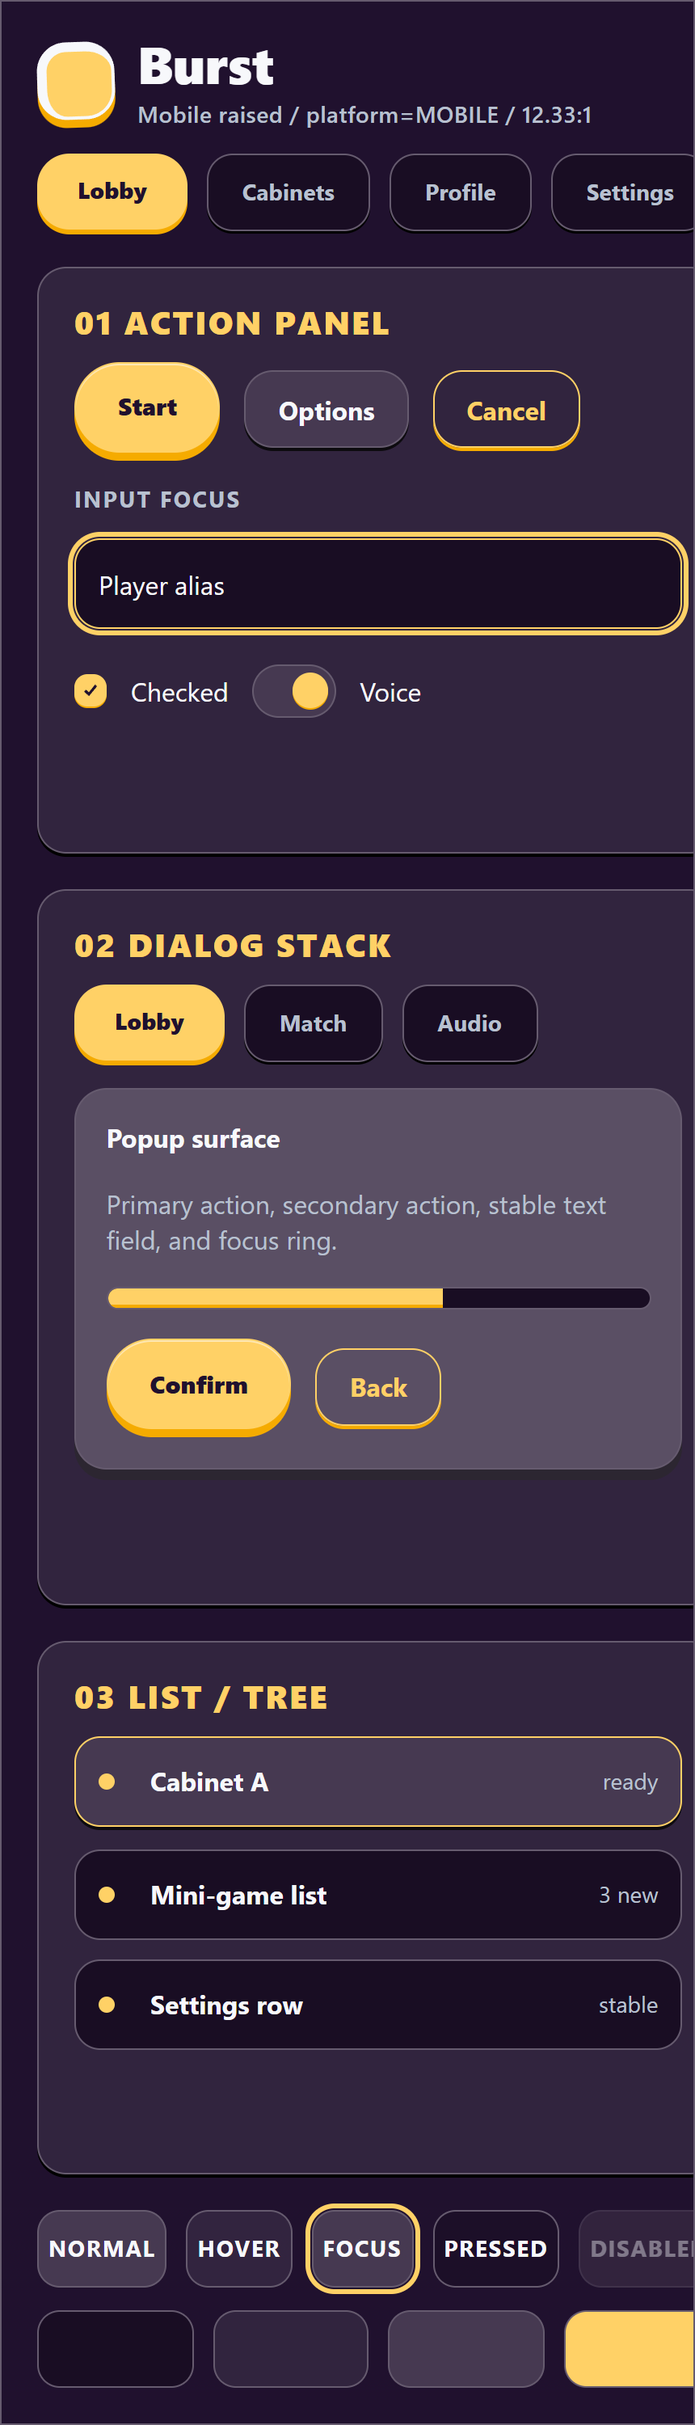
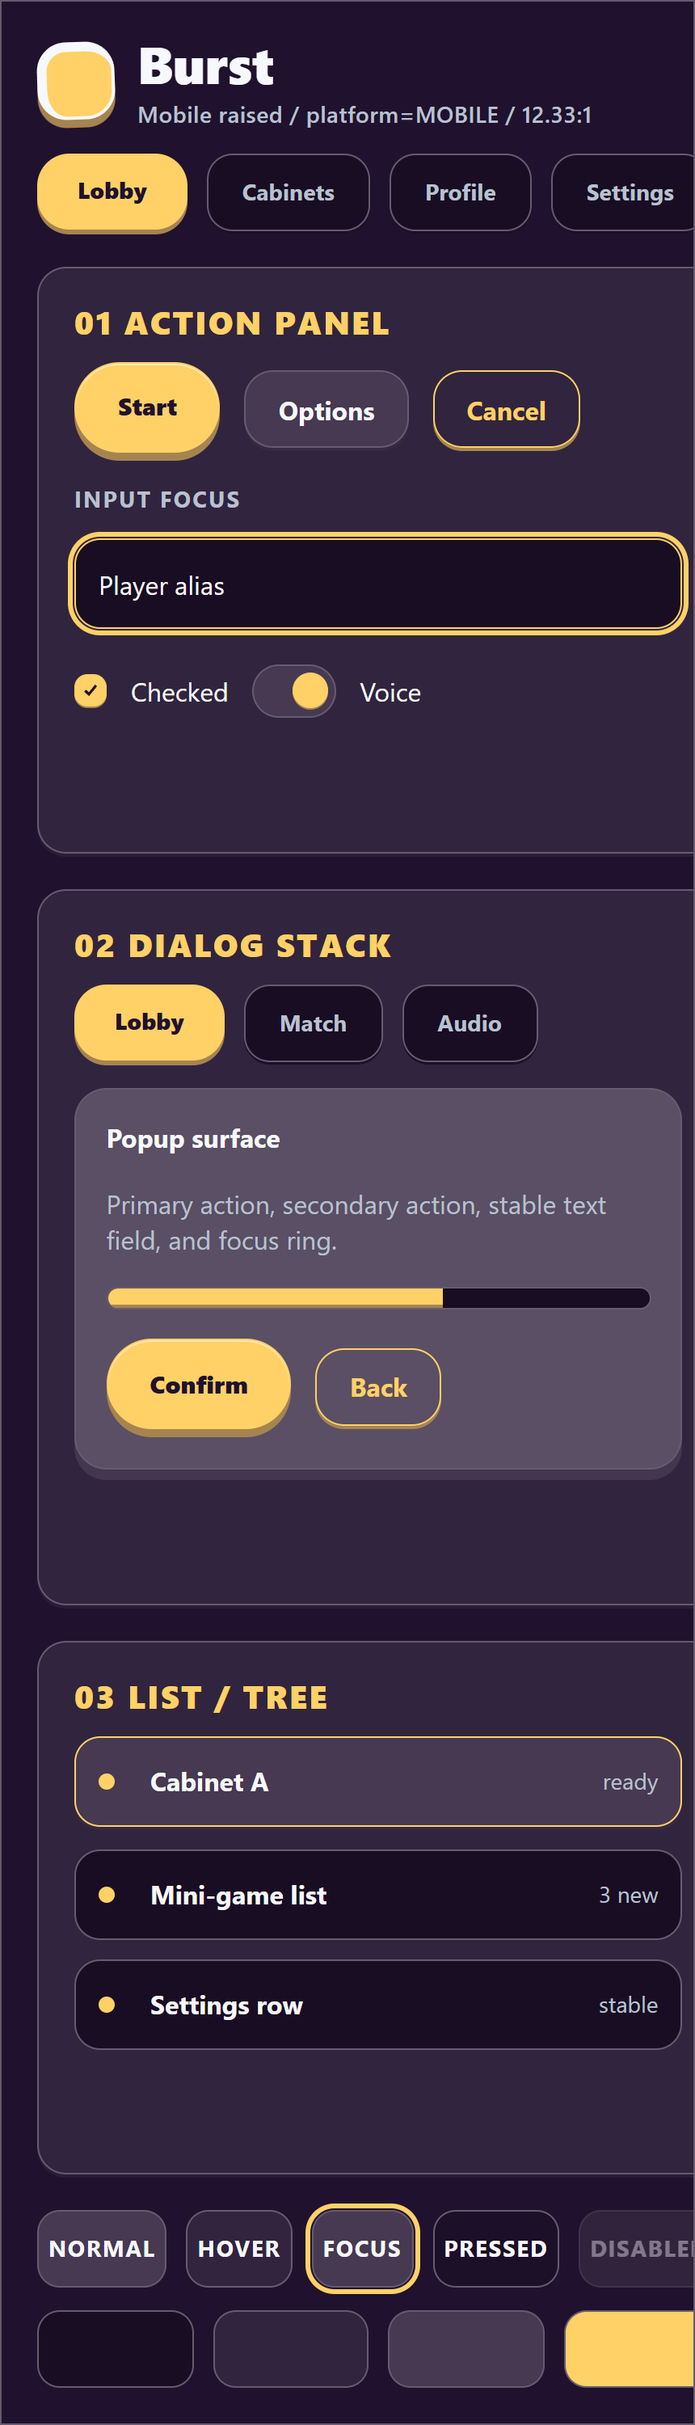
fix(03.4-02): mockup revision 3 — color-tinted offsets on all raised surfaces (no black panel edges)
Surgical fix per MOCKUP-REVISION-3-HANDOFF.md. Rev-2's per-color offset
fix (darken-by-HSL-lightness) landed correctly on bright accent-filled
elements but failed on already-dark surface colors: HSL lightness
subtraction floored at L=0, producing near-black bottom edges on every
panel, dialog, popup overlay, brand-mark badge, state-strip cell,
unselected tab, and selected list row. The result read as Neobrutalism
— the look the user explicitly rejected.

Fix: replaced darken(color, 22%) with tintTowardBase(color, base, 0.40)
= mix(element_color, page_base, 40%). The new formula shifts each
element's color 40% toward the page background, preserving hue at
every brightness AND never going past base on already-dark surfaces.
Bright accents shift to a darker variant in the same hue family
(Bubble's #FFB3E6 → ~#A77399, Pulse's #8BFF6A → ~#5CA352, etc.); dark
surfaces shift gently toward base without crossing it (Bubble's
surface_panel #312133 → ~#2C1B2D, in the same berry family).

Tokens migrated:
  --accent-offset           = mix(accent,           base, 40%)
  --surface-panel-offset    = mix(surface_panel,    base, 40%)
  --surface-high-offset     = mix(surface_high,     base, 40%)
  --surface-overlay-offset  = mix(surface_overlay,  base, 40%)
  --surface-low-offset      = mix(surface_low,      base, 40%)

The legacy --offset alias (no CSS rule consumes it today) still uses
darken(base, 22) — tintTowardBase(base, base) would degenerate to base
[…]

Changed region(s): [[0.1209, 0.558, 0.9674, 0.62], [0.1512, 0.186, 0.2721, 0.217], [0.0605, 0.031, 0.1512, 0.062]]

diff --git a/.planning/mockups/3.4/src/neocade-mockups.js b/.planning/mockups/3.4/src/neocade-mockups.js
@@ -302,9 +302,17 @@ function luminance(hex) {
  *
  * mix(hex, "#000000", pct) was producing "near-black" bottom edges on raised
  * elements regardless of element bg color (Neobrutalism look — explicitly
- * rejected by the user). Reducing HSL lightness instead preserves hue, so a
- * pink button gets a darker-pink offset (the user's PLAY-button reference).
- */
+ * rejected by the user). Reducing HSL lightness preserves hue, so a pink
+ * button gets a darker-pink offset (the user's PLAY-button reference).
+ *
+ * SUPERSEDED FOR OFFSET TOKENS by tintTowardBase() — see rev-3 handoff.
+ * darken() relied on HSL lightness subtraction, which clamps to 0 on already-
+ * dark surface colors (e.g. surface_panel ≈ L=10% minus 22 → L=0 → near-black).
+ * tintTowardBase() mixes the element color toward the page base instead,
+ * which never goes past the base lightness and preserves hue for both bright
+ * accent fills AND already-dark surface colors. darken() is retained because
+ * the legacy --offset alias (base_offset) still uses it for a distinct-from-
+ * base sentinel color (no CSS rule actually consumes var(--offset) today). */
 function rgbToHsl({ r, g, b }) {
   const rn = r / 255, gn = g / 255, bn = b / 255;
   const max = Math.max(rn, gn, bn);
@@ -351,11 +359,34 @@ function hslToRgb({ h, s, l }) {
  * The bottom-edge offset of a raised element should be the SAME hue as the
  * element bg, just darker — never near-black. ~22% is the default per the
  * handoff; smaller for already-light surfaces (overlay) where 22% goes too far.
+ *
+ * NOTE (rev-3): no longer used for the per-color offset tokens. See
+ * tintTowardBase() below. Retained for the legacy --offset alias.
  */
 function darken(hex, percent) {
   const { h, s, l } = rgbToHsl(hexToRgb(hex));
   const newL = Math.max(0, l - percent / 100);
   return rgbToHex(hslToRgb({ h, s, l: newL }));
+}
+
+/**
+ * Returns `elementHex` mixed `ratio` of the way toward `baseHex` — i.e., the
+ * element's color shifted partway toward the page background. This is the
+ * rev-3 replacement for `darken()` on the per-color offset tokens.
+ *
+ * Why mix-with-base, not HSL-darken:
+ *   darken() floors at L=0, so already-dark surface colors (e.g., Bubble's
+ *   surface_panel ≈ L=10%) lose hue and render near-black at -22%, which the
+ *   user calls "Neobrutalism" and rejects. Mixing toward base preserves hue
+ *   at every brightness — bright accents shift toward base (= darker accent in
+ *   the same hue family), already-dark surfaces shift gently toward base
+ *   (= subtly different in the same family, never past base, never black).
+ *
+ * Default ratio 0.40 per MOCKUP-REVISION-3-HANDOFF.md. Tune to 0.30..0.55 if
+ * surface offsets read too prominent (lower) or too subtle (higher).
+ */
+function tintTowardBase(elementHex, baseHex, ratio = 0.40) {
+  return mix(elementHex, baseHex, ratio);
 }
 
 /* --- token derivation per direction + platform ----------------------------- */
@@ -384,15 +415,23 @@ function deriveSurfaceRamp(direction) {
     surface_high,
     surface_overlay,
     outline,
-    /* Per-color offset tokens — each raised element's bottom edge is a darker
-     * variant of its OWN background, not a single near-black token. ~22% HSL
-     * lightness reduction; 18% for surface_overlay (which is already light, so
-     * 22% would crush hue). */
-    accent_offset: darken(accent, 22),
-    surface_high_offset: darken(surface_high, 22),
-    surface_panel_offset: darken(surface_panel, 22),
-    surface_overlay_offset: darken(surface_overlay, 18),
-    surface_low_offset: darken(surface_low, 22),
+    /* Per-color offset tokens (rev-3) — each raised element's bottom edge is a
+     * tinted variant of its OWN bg, mixed 40% toward the page base. Preserves
+     * hue at every brightness AND never goes past base on already-dark
+     * surfaces (the rev-2 darken-floored-at-0 → near-black panel-edge bug
+     * called out in MOCKUP-REVISION-3-HANDOFF.md). Verify visually: every
+     * raised element's bottom edge sits in its own hue family, never black.
+     *
+     * base_offset is intentionally left on darken() — it backs the legacy
+     * --offset alias and should remain distinct from base; tintTowardBase
+     * (base, base, 0.40) would degenerate to base itself. No CSS rule consumes
+     * var(--offset) today, but a future rule's fallback should not be the
+     * exact page color. */
+    accent_offset: tintTowardBase(accent, base, 0.40),
+    surface_high_offset: tintTowardBase(surface_high, base, 0.40),
+    surface_panel_offset: tintTowardBase(surface_panel, base, 0.40),
+    surface_overlay_offset: tintTowardBase(surface_overlay, base, 0.40),
+    surface_low_offset: tintTowardBase(surface_low, base, 0.40),
     base_offset: darken(base, 22)
   };
 }

diff --git a/.planning/mockups/3.4/src/neocade-mockups.css b/.planning/mockups/3.4/src/neocade-mockups.css
@@ -357,9 +357,12 @@ h3 {
  *     STAYS FLAT: text inputs (recessed), passive labels/kickers/headers,
  *                 scrollbar track + grabber, separators, unselected list rows,
  *                 focus ring (already emphatic), state-strip demo swatches.
- *   Each lifted element's bottom-edge offset is a darker variant of its OWN
- *   background color (per-color offset tokens), never a single near-black
- *   token. See `darken()` helper + `deriveSurfaceRamp()` in JS.
+ *   Each lifted element's bottom-edge offset is a tinted variant of its OWN
+ *   background color (per-color offset tokens), mixed 40% toward the page
+ *   base — never a single near-black token. See `tintTowardBase()` helper +
+ *   `deriveSurfaceRamp()` in JS (rev-3 replaces rev-2's `darken()` which
+ *   floored at lightness 0 on already-dark surfaces, producing the black
+ *   panel edges the user called out).
  * ============================================================================ */
 
 .nc-artboard {

diff --git a/.planning/mockups/3.4/render-check.md b/.planning/mockups/3.4/render-check.md
@@ -1,5 +1,9 @@
 # Phase 3.4 Render Check
 
+**Status (revision 3, 2026-05-06):** Mockup revision 3 complete per `MOCKUP-REVISION-3-HANDOFF.md` — surgical fix for the dark-surface near-black bottom-edge bug introduced by rev-2's `darken()` HSL helper. Surface-colored elements (panels, dialogs, popup overlays, brand-mark badge, state-strip cells, unselected tabs, selected list rows) now correctly land color-tinted offsets in their own hue family. 15 concept PNGs + 2 audit composites re-rendered. All other rev-2 decisions (wider radius spread, broader raised matrix, slideshow, platform sizing, mood differentiation) stand unchanged.
+
+**Rev-3 fix:** Replaced `darken(color, 22%)` with `tintTowardBase(color, base, 0.40)` (= `mix(element_color, page_base, 40%)`) for `--accent-offset`, `--surface-panel-offset`, `--surface-high-offset`, `--surface-overlay-offset`, `--surface-low-offset`. The previous formula floored at HSL lightness 0 on already-dark surfaces (e.g., Bubble's `surface_panel` ≈ L=10%; minus 22 clamps to L=0 → near-black), reading as Neobrutalism — the look the user explicitly rejected. The new formula shifts each element 40% toward the page background, preserving hue at every brightness and never crossing past the base. The legacy `--offset` alias still uses `darken()` for a distinct-from-base sentinel (no CSS rule consumes `var(--offset)` today).
+
 **Status (revision 2, 2026-05-07):** Mockup revision 2 complete per `MOCKUP-REVISION-2-HANDOFF.md`. 15 concept PNGs + 2 audit composites re-rendered. All six handoff issues addressed:
 
 1. **Issue 1 — Broad raised matrix.** Most interactables now lift in raised mode (primary/secondary/ghost buttons, selected & unselected tabs, panels, dialogs, list cards, brand mark, chips, selected list rows, toggle thumb, checkbox, progress fill). Explicit do-not-raise list (text inputs, passive labels, kickers, h2 headers, scrollbar, separators, unselected list rows, focus ring, state-strip demo swatches) stays flat.
@@ -23,7 +27,7 @@
 | Per-direction shape-language tokens encoded | PASS | All 10 axes per direction; `shape_language` block in `directions.json`, mirrored in `NEOCADE_DIRECTIONS[*].shape` in JS for file:// runtime. Revision-2 radius spread (0/8/14/18/26) committed. |
 | Artboard CSS does NOT hard-code shape tokens | PASS | `.nc-artboard` reads `var(--radius-base)`, `var(--button-pad-h)`, etc.; no `--radius: 12px` literal anywhere on the artboard or board path. |
 | Artboard CSS does NOT hard-code platform sizes | PASS | `.nc-art-button` reads `var(--button-min)`; `.nc-art-input` reads `var(--input-min)`; `.nc-art-list-row` reads `var(--row-min)`; etc. `.nc-artboard.mobile` only overrides physical width/height, not control sizes. |
-| Per-color offset tokens emitted | PASS | `deriveSurfaceRamp()` emits `accent_offset`, `surface_high_offset`, `surface_panel_offset`, `surface_overlay_offset`, `surface_low_offset` via `darken(hex, pct)` HSL helper at ~22% lightness reduction. |
+| Per-color offset tokens emitted | PASS | `deriveSurfaceRamp()` emits `accent_offset`, `surface_high_offset`, `surface_panel_offset`, `surface_overlay_offset`, `surface_low_offset` via `tintTowardBase(hex, base, 0.40)` (rev-3 — replaces rev-2's `darken()` which clamped to near-black on already-dark surfaces). Each offset is `mix(element_color, page_base, 40%)`, preserving hue at every brightness. |
 | Slideshow component bound | PASS | `concept-gallery.html` includes `<section class="nc-slideshow">`; `bindSlideshow()` wires arrows + keyboard + tabs; image transition is `none !important`. |
 | Flat concept output path | PASS | `concept-image.html?raised=false` renders the flat artboard. |
 | Raised concept output path | PASS | `concept-image.html?raised=true` renders the raised artboard with broad raise matrix and per-color offsets. |
@@ -57,8 +61,8 @@
 | anti-cyberpunk | PASS | No glow, no neon outlines, no synthwave tropes; bright green is daylight cabinet, not nightclub. |
 | anti-texture | PASS | Solid fills only; no patterns, gradients, embossing, or painterly chrome. |
 | anti-painterly-chrome / anti-embossing | PASS | All depth via hard offset, never via gradient or inner-shadow embossing. |
-| raised-mode feel | appropriate | 3px primary / 2px tab offsets read tactile without becoming toy-like; broad matrix lifts the interactable surfaces but inputs / scrollbars / unselected rows / passive labels stay flat. |
-| per-color offset (Issue 2) | PASS | START button bottom edge is darker green (matches the green hue, not near-black). Brand mark lifts on darker green. Selected tab lifts on darker green. Verified at full PNG resolution. |
+| raised-mode feel | appropriate | 3px primary / 2px tab offsets read tactile without becoming toy-like; broad matrix lifts the interactable surfaces but inputs / scrollbars / unselected rows / passive labels stay flat. All raised elements use color-tinted offsets in their own hue family — no near-black bottom edges anywhere (rev-3 fix landed for non-accent surfaces specifically). |
+| per-color offset (Issue 2 + rev-3) | PASS | START button bottom edge ≈ `#5CA352` (`mix(#8BFF6A, #151A2E, 40%)` — green family, not near-black). Cabinet-bezel brand mark, selected Lobby tab (offset stacks under the inset bottom-rule), Confirm primary in dialog all lift on green-tinted edges. Action-panel + dialog-stack + list-tree containers use `--surface-panel-offset` = `mix(surface_panel, base, 40%)`; popup overlay uses `--surface-overlay-offset` = `mix(surface_overlay, base, 40%)`; state-strip cells use `--surface-high-offset`. None near-black. |
 | dark-only compliance (D-28) | PASS | base `#151A2E`. |
 | shape-language differentiation (D-29) | 10/10 axes | Distinct on every axis from at least 3 of 4 siblings. 0px corners are categorically unique. |
 | greyscale sufficiency (D-30) | PASS | Reads as CABINET CONTROL PANEL. Sharp 0px corners + flush rectangular tab strip + square cabinet-bezel mark + uppercase-tracked kickers are unmistakable in greyscale. |
@@ -84,8 +88,8 @@
 | anti-cyberpunk | PASS | Restraint is the personality; cool sky-blue is professional, not neon. |
 | anti-texture | PASS | Solid fills, no decorative chrome. |
 | anti-painterly-chrome / anti-embossing | PASS | No gradients on chrome surfaces. |
-| raised-mode feel | appropriate | 2px primary, 1px tab/row/secondary — quiet broad matrix matches premium-tool restraint. |
-| per-color offset (Issue 2) | PASS | Start primary bottom edge is darker sky-blue (same hue, darker). Selected tab and brand-mark lifts also accent-darker. Inputs stay flat. |
+| raised-mode feel | appropriate | 2px primary, 1px tab/row/secondary — quiet broad matrix matches premium-tool restraint. All raised elements use color-tinted offsets in their own hue family — no near-black bottom edges anywhere (rev-3 fix landed for non-accent surfaces specifically). |
+| per-color offset (Issue 2 + rev-3) | PASS | Start primary bottom edge ≈ `#5A88A6` (`mix(#8BD3FF, #111820, 40%)` — sky-blue family, not near-black). Selected pill tab, rounded-square brand mark, Confirm primary all lift on subtle blue-tinted edges. Action panel + dialog stack + list/tree containers lift on `mix(surface_panel, base, 40%)` (cool slate-tinted, not black). Popup overlay lifts on `mix(surface_overlay, base, 40%)`. Selected list row uses `--surface-high-offset`. Inputs stay flat. Quiet 1-2px depths preserve premium-tool restraint while fixing the rev-2 black-edge issue. |
 | dark-only compliance (D-28) | PASS | base `#111820`. |
 | shape-language differentiation (D-29) | 10/10 axes | Pill chips + small-caps "01 action panel" kickers + narrow-spread surface ramp uniquely identify Slate. |
 | greyscale sufficiency (D-30) | PASS | Reads as PREMIUM TOOL APP. Pill chips + small-caps subtle kickers + smallest button surface deltas + narrowest surface ramp set it apart even without color. |
@@ -111,8 +115,8 @@
 | anti-cyberpunk | PASS | Friendly mobile-game brightness on dark berry, not nightclub. |
 | anti-texture | PASS | Solid berry surfaces, no patterns or stickers. |
 | anti-painterly-chrome / anti-embossing | PASS | Box-shadow hard offset only — no soft inner shadow / no fake bevels. The 1px accent-rim inner highlight on primary mimics the PLAY-button reference but stays in the flat-3D pattern. |
-| raised-mode feel | appropriate | 6px primary is the bubbliest in the set; broad matrix lifts buttons + panels + dialog + tabs + brand mark + thumb + check + progress; inputs / scrollbars / unselected rows / passive labels stay flat. |
-| per-color offset (Issue 2) | PASS — fidelity check passed | Start primary bottom edge is darker pink (`darken(#FFB3E6, 22%)` = `~#CC8BB8`), NOT near-black. Verified at full PNG resolution. Brand-mark circle, selected pill tabs, and Confirm primary in dialog all lift on darker-pink edges matching the user's PLAY-button reference. |
+| raised-mode feel | appropriate | 6px primary is the bubbliest in the set; broad matrix lifts buttons + panels + dialog + tabs + brand mark + thumb + check + progress; inputs / scrollbars / unselected rows / passive labels stay flat. All raised elements use color-tinted offsets in their own hue family — no near-black bottom edges anywhere (rev-3 fix landed for non-accent surfaces specifically). |
+| per-color offset (Issue 2 + rev-3) | PASS — fidelity check passed | Start primary bottom edge ≈ `#A77399` (`mix(#FFB3E6, #241326, 40%)` — darker berry-pink, pink family). Action-panel container, popup-surface dialog, brand-mark true-circle, state-strip cells, selected Cabinet A row, fully-rounded pill tabs, Confirm primary all lift on darker-berry tinted edges in the same hue family. Side-by-side compare against v0 `prize-pop-plaza-concept.png`: the candy-counter mood is recovered — every offset reads as a darker berry, never as a black slab. The rev-2 black-edge bug on dark-surface elements (panels, dialog, brand, state-strip) is gone. |
 | dark-only compliance (D-28) | PASS | base `#241326` (dark berry). |
 | shape-language differentiation (D-29) | 10/10 axes | Largest base radii (26px), true-circle brand mark (999px), fully-rounded pill chips, biggest raised offsets, fully-rounded primary — uniquely Bubble. |
 | greyscale sufficiency (D-30) | PASS | Reads as COZY MOBILE GAME. Circle brand mark + fully-rounded pill chips + biggest raised offsets are unmistakable in greyscale. |
@@ -138,8 +142,8 @@
 | anti-cyberpunk | PASS | Mint accent is daylight, not neon; halo decorations are soft auras, not glow rims. |
 | anti-texture | PASS | Solid teal surfaces, no patterns. |
 | anti-painterly-chrome / anti-embossing | PASS | Halos are CSS color-mix box-shadow, not painted gradient surfaces. |
-| raised-mode feel | appropriate | 3px primary, 2px tab — tactile without floating shells; sentence-case kickers reinforce calm tone. |
-| per-color offset (Issue 2) | PASS | Start primary bottom edge is darker mint (`darken(#76F2D1, 22%)` = ~`#3FBF99`), NOT near-black. Brand mark, selected tab with halo, and Confirm primary all lift on mint-darker. |
+| raised-mode feel | appropriate | 3px primary, 2px tab — tactile without floating shells; sentence-case kickers reinforce calm tone. All raised elements use color-tinted offsets in their own hue family — no near-black bottom edges anywhere (rev-3 fix landed for non-accent surfaces specifically). |
+| per-color offset (Issue 2 + rev-3) | PASS | Start primary bottom edge ≈ `#4BA08A` (`mix(#76F2D1, #0B2420, 40%)` — mint/teal family). Brand mark with halo, selected halo-tab, Confirm primary all lift on mint-tinted edges. Action panel + dialog stack + list/tree containers lift on `mix(surface_panel, base, 40%)` (deep teal-tinted, not black). Popup overlay lifts on `mix(surface_overlay, base, 40%)`. State-strip cells lift on `--surface-high-offset` in the teal family. The airy-lobby mood is preserved. |
 | dark-only compliance (D-28) | PASS | base `#0B2420`. |
 | shape-language differentiation (D-29) | 10/10 axes | Sentence-case kickers + brand-mark halo aura + mint-glow focus ring + 8px subtle rounding + airiest density distinguish Daybreak. |
 | greyscale sufficiency (D-30) | PASS | Reads as COMMUNITY LOBBY. Halos behind selected tab and brand mark are visible in greyscale; sentence-case kickers contrast Pulse / Bubble / Burst's uppercase. |
@@ -165,8 +169,8 @@
 | anti-cyberpunk | PASS | Celebratory bold gold reads achievement screen, not casino glow; no painted shine. |
 | anti-texture | PASS | Solid surfaces, no patterns. |
 | anti-painterly-chrome / anti-embossing | PASS | All emphasis via radius / size / weight / hard offset — never via faux 3D bevels. |
-| raised-mode feel | appropriate | 5px primary + 2px secondary creates clear depth hierarchy without becoming gimmicky; oversized 28px primary radius keeps the "event launcher" feel. |
-| per-color offset (Issue 2) | PASS | Start primary bottom edge is darker gold (`darken(#FFD166, 22%)` = ~`#CC9933`), NOT near-black. Asymmetric brand mark, oversized Confirm primary in dialog all lift on gold-darker. |
+| raised-mode feel | appropriate | 5px primary + 2px secondary creates clear depth hierarchy without becoming gimmicky; oversized 28px primary radius keeps the "event launcher" feel. All raised elements use color-tinted offsets in their own hue family — no near-black bottom edges anywhere (rev-3 fix landed for non-accent surfaces specifically). |
+| per-color offset (Issue 2 + rev-3) | PASS | Start primary bottom edge ≈ `#A68450` (`mix(#FFD166, #20112E, 40%)` — gold family). Asymmetric brand mark, oversized Confirm primary, asymmetric selected tab all lift on gold-tinted edges. Action panel + dialog stack + list/tree containers lift on `mix(surface_panel, base, 40%)` (dark plum-tinted, not black). Popup overlay lifts on `mix(surface_overlay, base, 40%)`. State-strip cells lift on `--surface-high-offset` in the plum family. Achievement-screen drama is preserved. |
 | dark-only compliance (D-28) | PASS | base `#20112E` (dark plum). |
 | shape-language differentiation (D-29) | 10/10 axes | Asymmetric brand mark + asymmetric selected tab + oversized 28px primary radius + biggest type weights uniquely identify Burst. |
 | greyscale sufficiency (D-30) | PASS | Reads as ACHIEVEMENT SCREEN. Asymmetric (visibly wider) selected Lobby tab + chunky asymmetric/tilted brand mark + biggest H1 + oversized primary radius. |
@@ -231,7 +235,7 @@ Each direction now visibly differentiates desktop and mobile, per Issue 6. The c
 - Mobile file-size sanity: every mobile PNG between ~200KB and ~400KB (taller than rev 1).
 - Anti-aliasing: text rendered via Inter system fallback. Shape-language differentiation does not depend on the specific font; type WEIGHT and KICKER STYLE are the differentiators, both of which render correctly.
 - Per-direction shape-language source-of-truth lives in `data/directions.json` `shape_language` blocks AND in JS `NEOCADE_DIRECTIONS[*].shape` (mirrored intentionally for file:// runtime). Revision-2 corner_radius and raised matrix changes committed in both.
-- Artboard CSS variable injection: every `.nc-artboard` element receives an inline `style="--radius-base: <r>px; --accent: <hex>; --button-min: <p>px; --accent-offset: <darkened-hex>; ..."` declaration set by `deriveTokens(direction, platform, raised)` in `src/neocade-mockups.js`. Revision-2 adds per-color offset tokens and platform sizing variables.
+- Artboard CSS variable injection: every `.nc-artboard` element receives an inline `style="--radius-base: <r>px; --accent: <hex>; --button-min: <p>px; --accent-offset: <tinted-hex>; ..."` declaration set by `deriveTokens(direction, platform, raised)` in `src/neocade-mockups.js`. Revision-2 added per-color offset tokens + platform sizing variables; revision-3 reformulated the offsets via `tintTowardBase()` (mix-toward-base 40%) so already-dark surfaces no longer floor at near-black.
 
 ## Forbidden-Surface Audit
 
